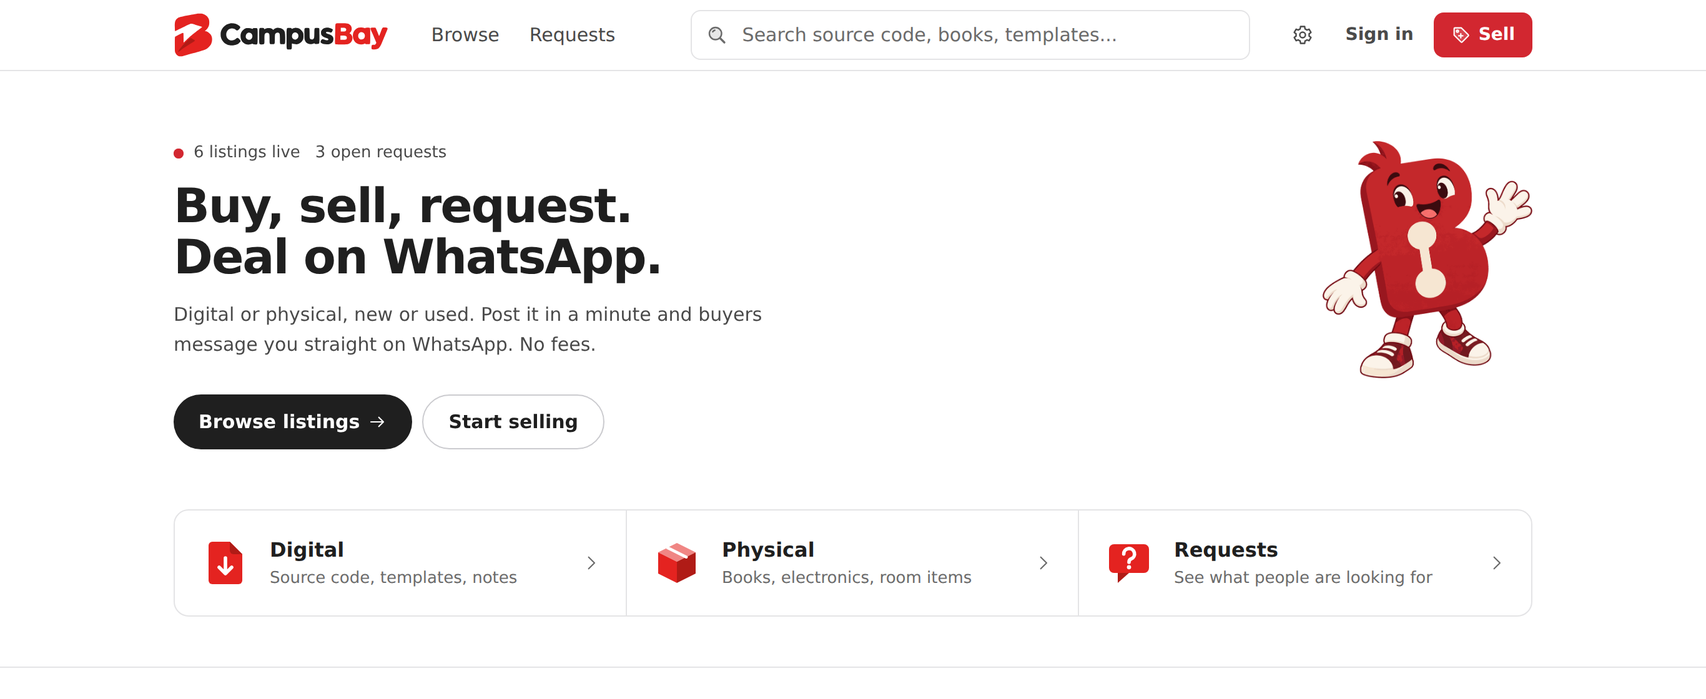
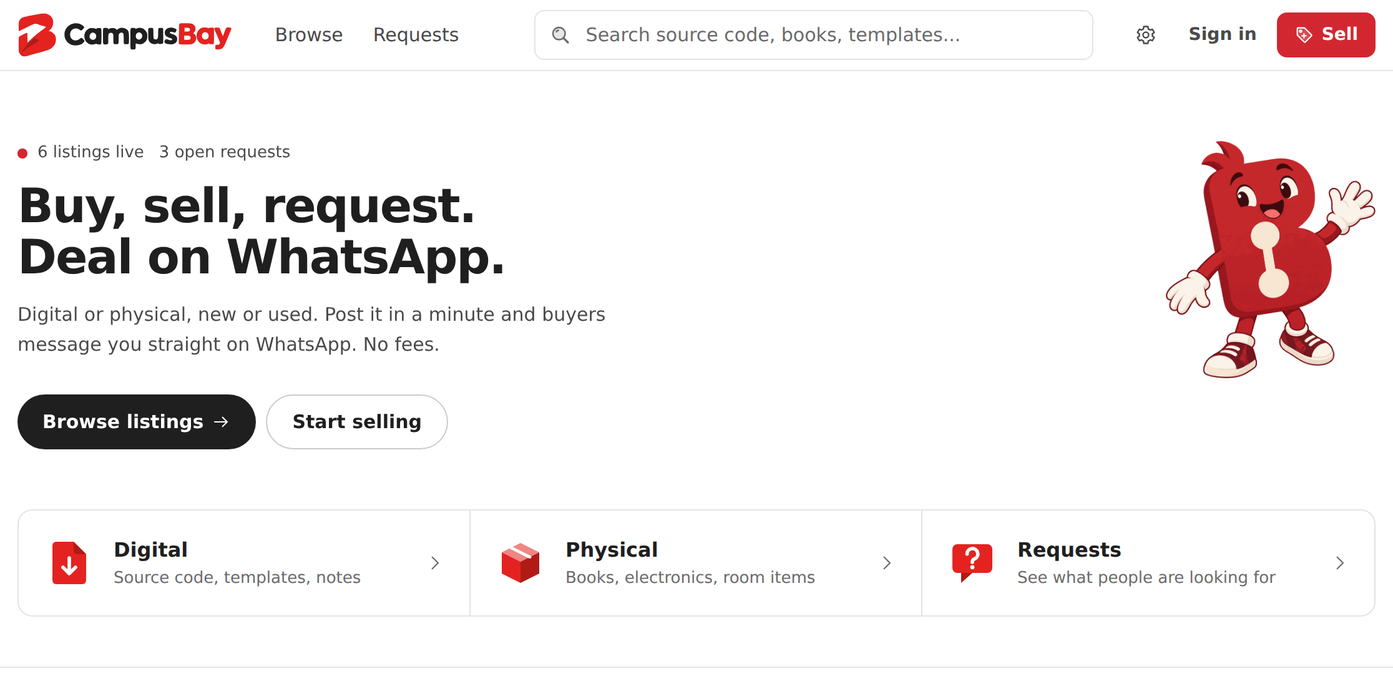
fix: shorter project card subtitles, no links in resume projects, larger CampusBay hero

diff --git a/v7/main.css b/v7/main.css
@@ -1611,3 +1611,6 @@ a.contributor-chip:hover .contributor-chip-avatar {
 .resume-links { font-size: 13px; color: #8a8f98; }
 .resume-links a { color: #2563eb; text-decoration: none; }
 .resume-links a:hover { text-decoration: underline; }
+
+/* project card: wide screenshots shown whole instead of cropped at the sides */
+.project-image-container img.thumb-contain { object-fit: contain; background: #fff; }

diff --git a/v7/content/projects/project.php b/v7/content/projects/project.php
@@ -29,13 +29,13 @@
                                     <div class="project-title">UMOVE</div>
                                     <div class="text-silent text14">2026</div>
                                 </div>
-                                <div class="text-silent project-desc">Campus errands delivered by fellow UM students. Live request board, verified runners, pay on delivery, self-hosted API.</div>
+                                <div class="text-silent project-desc">Campus errands, delivered by fellow UM students.</div>
                                 <div class="project-details">
                                     <div class="hr0-10"></div>
                                     <div class="tech-stack"><span class="badge blog-badge badge-blue">React</span><span class="badge blog-badge badge-green">Hono</span><span class="badge blog-badge badge-purple">PostgreSQL</span><span class="badge blog-badge badge-orange">Docker</span></div>
                                 </div>
                                 <div class="project-image-container">
-                                    <img src="image/assets/umove/hero.png" alt="UMOVE homepage with the live request board" loading="lazy" decoding="async">
+                                    <img class="thumb-contain" src="image/assets/umove/hero.png" alt="UMOVE homepage with the live request board" loading="lazy" decoding="async">
                                     <div class="image-overlay">
                                         <a class="anone badge overlay-btn" href="/umove">Project Details</a>
                                         <a class="anone badge overlay-btn" href="https://umove.rafiarsya.com" target="_blank" rel="noopener noreferrer">Website</a>
@@ -52,13 +52,13 @@
                                     <div class="project-title">CampusBay</div>
                                     <div class="text-silent text14">2026</div>
                                 </div>
-                                <div class="text-silent project-desc">Student marketplace where every deal happens on WhatsApp. Next.js on Cloudflare Workers, with live updates and a full moderation panel.</div>
+                                <div class="text-silent project-desc">Student marketplace where every deal happens on WhatsApp.</div>
                                 <div class="project-details">
                                     <div class="hr0-10"></div>
                                     <div class="tech-stack"><span class="badge blog-badge badge-blue">Next.js</span><span class="badge blog-badge badge-green">Cloudflare Workers</span><span class="badge blog-badge badge-purple">D1</span><span class="badge blog-badge badge-orange">TypeScript</span></div>
                                 </div>
                                 <div class="project-image-container">
-                                    <img src="image/assets/campusbay/hero.png" alt="CampusBay homepage hero with Bayo the mascot" loading="lazy" decoding="async">
+                                    <img class="thumb-contain" src="image/assets/campusbay/hero.png" alt="CampusBay homepage hero with Bayo the mascot" loading="lazy" decoding="async">
                                     <div class="image-overlay">
                                         <a class="anone badge overlay-btn" href="/campusbay">Project Details</a>
                                         <a class="anone badge overlay-btn" href="https://campusbay.store" target="_blank" rel="noopener noreferrer">Website</a>
@@ -75,7 +75,7 @@
                                     <div class="project-title">SENARA Artfest 2026</div>
                                     <div class="text-silent text14">2026</div>
                                 </div>
-                                <div class="text-silent project-desc">Re-themed PPI Malaysia's art exhibition site for 2026 and built a new Online Exhibition with category and artwork pages.</div>
+                                <div class="text-silent project-desc">PPI Malaysia's art exhibition site, with a new online gallery.</div>
                                 <div class="project-details">
                                     <div class="hr0-10"></div>
                                     <div class="tech-stack"><span class="badge blog-badge badge-blue">HTML</span><span class="badge blog-badge badge-green">CSS</span><span class="badge blog-badge badge-purple">JavaScript</span><span class="badge blog-badge badge-orange">Bootstrap 5</span></div>
@@ -98,7 +98,7 @@
                                     <div class="project-title">AI Eval Dashboard</div>
                                     <div class="text-silent text14">2026</div>
                                 </div>
-                                <div class="text-silent project-desc">Claude grades model answers as correct, partial, wrong or hallucinated, with accuracy, latency and cost per run.</div>
+                                <div class="text-silent project-desc">Claude grades AI answers and tracks accuracy, latency and cost.</div>
                                 <div class="project-details">
                                     <div class="hr0-10"></div>
                                     <div class="tech-stack"><span class="badge blog-badge badge-blue">React</span><span class="badge blog-badge badge-green">Node.js</span><span class="badge blog-badge badge-purple">Supabase</span><span class="badge blog-badge badge-orange">Claude API</span></div>
@@ -121,7 +121,7 @@
                                     <div class="project-title">MarketPulse ETL</div>
                                     <div class="text-silent text14">2026</div>
                                 </div>
-                                <div class="text-silent project-desc">Daily crypto data into PostgreSQL, analysed with window functions and CTEs, served by FastAPI to a Chart.js dashboard.</div>
+                                <div class="text-silent project-desc">Crypto ETL pipeline: PostgreSQL, SQL analytics and a live dashboard.</div>
                                 <div class="project-details">
                                     <div class="hr0-10"></div>
                                     <div class="tech-stack"><span class="badge blog-badge badge-blue">Python</span><span class="badge blog-badge badge-green">PostgreSQL</span><span class="badge blog-badge badge-purple">FastAPI</span><span class="badge blog-badge badge-orange">Chart.js</span></div>
@@ -144,7 +144,7 @@
                                     <div class="project-title">PriceWatch</div>
                                     <div class="text-silent text14">2026</div>
                                 </div>
-                                <div class="text-silent project-desc">Chrome extension: point at a price once and get notified when it drops. Re-checks every three hours.</div>
+                                <div class="text-silent project-desc">Chrome extension that alerts you when a price drops.</div>
                                 <div class="project-details">
                                     <div class="hr0-10"></div>
                                     <div class="tech-stack"><span class="badge blog-badge badge-blue">Chrome Extension</span><span class="badge blog-badge badge-green">Manifest V3</span><span class="badge blog-badge badge-purple">Service Worker</span><span class="badge blog-badge badge-orange">Vanilla JS</span></div>
@@ -174,7 +174,7 @@
                                     <div class="project-title">PaperMind</div>
                                     <div class="text-silent text14">2026</div>
                                 </div>
-                                <div class="text-silent project-desc">Ask questions of any PDF with a fully local RAG stack: FastAPI, ChromaDB and Ollama on my own server.</div>
+                                <div class="text-silent project-desc">Chat with any PDF using a fully local RAG stack.</div>
                                 <div class="project-details">
                                     <div class="hr0-10"></div>
                                     <div class="tech-stack"><span class="badge blog-badge badge-blue">RAG</span><span class="badge blog-badge badge-green">LLM</span><span class="badge blog-badge badge-purple">React + Vite</span><span class="badge blog-badge badge-orange">FastAPI</span></div>
@@ -198,7 +198,7 @@
                                     <div class="project-title">AI Digit Recognizer</div>
                                     <div class="text-silent text14">2026</div>
                                 </div>
-                                <div class="text-silent project-desc">A CNN written from scratch in NumPy, 99.1% on MNIST, with a visualizer that shows every layer at work.</div>
+                                <div class="text-silent project-desc">A CNN written from scratch in NumPy, 99.1% on MNIST.</div>
                                 <div class="project-details">
                                     <div class="hr0-10"></div>
                                     <div class="tech-stack"><span class="badge blog-badge badge-blue">NumPy</span><span class="badge blog-badge badge-green">CNN</span><span class="badge blog-badge badge-purple">MNIST</span><span class="badge blog-badge badge-orange">Flask</span></div>
@@ -221,7 +221,7 @@
                                     <div class="project-title">Snip URL Shortener</div>
                                     <div class="text-silent text14">2026</div>
                                 </div>
-                                <div class="text-silent project-desc">Serverless URL shortener with click analytics: Lambda, API Gateway and DynamoDB, defined in AWS SAM.</div>
+                                <div class="text-silent project-desc">Serverless URL shortener on AWS Lambda and DynamoDB.</div>
                                 <div class="project-details">
                                     <div class="hr0-10"></div>
                                     <div class="tech-stack"><span class="badge blog-badge badge-blue">AWS Lambda</span><span class="badge blog-badge badge-green">DynamoDB</span><span class="badge blog-badge badge-purple">API Gateway</span><span class="badge blog-badge badge-orange">AWS SAM</span></div>
@@ -245,7 +245,7 @@
                                     <div class="project-title">Nalar</div>
                                     <div class="text-silent text14">2026</div>
                                 </div>
-                                <div class="text-silent project-desc">Personal blog with a hand-built CMS: Markdown editor, scheduled posts and JWT auth, self-hosted behind Cloudflare Tunnel.</div>
+                                <div class="text-silent project-desc">Self-hosted blog with a CMS I built from scratch.</div>
                                 <div class="project-details">
                                     <div class="hr0-10"></div>
                                     <div class="tech-stack"><span class="badge blog-badge badge-blue">Node.js</span><span class="badge blog-badge badge-green">Express</span><span class="badge blog-badge badge-purple">PostgreSQL</span><span class="badge blog-badge badge-orange">JWT Auth</span></div>
@@ -269,7 +269,7 @@
                                     <div class="project-title">Crop Disease Detector</div>
                                     <div class="text-silent text14">2026</div>
                                 </div>
-                                <div class="text-silent project-desc">Identifies 38 plant diseases from one leaf photo. MobileNetV2 transfer learning, about 97% accuracy, live on Hugging Face.</div>
+                                <div class="text-silent project-desc">Detects 38 plant diseases from one leaf photo.</div>
                                 <div class="project-details">
                                     <div class="hr0-10"></div>
                                     <div class="tech-stack"><span class="badge blog-badge badge-blue">TensorFlow</span><span class="badge blog-badge badge-green">MobileNetV2</span><span class="badge blog-badge badge-purple">Transfer Learning</span><span class="badge blog-badge badge-orange">PlantVillage Dataset</span></div>
@@ -293,7 +293,7 @@
                                     <div class="project-title">IDFEST 2026 Website</div>
                                     <div class="text-silent text14">2026</div>
                                 </div>
-                                <div class="text-silent project-desc">Official site for PPI UM's Indonesian cultural festival, built as a team from Figma designs in Next.js.</div>
+                                <div class="text-silent project-desc">Official site for PPI UM's Indonesian cultural festival.</div>
                                 <div class="project-details">
                                     <div class="hr0-10"></div>
                                     <div class="tech-stack"><span class="badge blog-badge badge-blue">Next.js 16</span><span class="badge blog-badge badge-green">React 19</span><span class="badge blog-badge badge-purple">TypeScript</span><span class="badge blog-badge badge-orange">Tailwind CSS v4</span></div>
@@ -317,7 +317,7 @@
                                     <div class="project-title">Steam Market Intelligence</div>
                                     <div class="text-silent text14">2026</div>
                                 </div>
-                                <div class="text-silent project-desc">SQLite compiled to WebAssembly runs live SQL over 1,400 games right in the browser. No backend.</div>
+                                <div class="text-silent project-desc">Live SQL analytics running entirely in the browser.</div>
                                 <div class="project-details">
                                     <div class="hr0-10"></div>
                                     <div class="tech-stack"><span class="badge blog-badge badge-blue">SQLite</span><span class="badge blog-badge badge-green">sql.js (WASM)</span><span class="badge blog-badge badge-purple">Window Functions</span><span class="badge blog-badge badge-orange">Recursive CTEs</span></div>
@@ -341,7 +341,7 @@
                                     <div class="project-title">Arena Duel</div>
                                     <div class="text-silent text14">2026</div>
                                 </div>
-                                <div class="text-silent project-desc">Real-time 1v1 over WebSockets, with a server-authoritative state machine that keeps both players honest.</div>
+                                <div class="text-silent project-desc">Real-time 1v1 game with cheat-proof server logic.</div>
                                 <div class="project-details">
                                     <div class="hr0-10"></div>
                                     <div class="tech-stack"><span class="badge blog-badge badge-blue">Node.js</span><span class="badge blog-badge badge-green">Socket.IO</span><span class="badge blog-badge badge-purple">Express</span><span class="badge blog-badge badge-orange">React</span></div>
@@ -364,7 +364,7 @@
                                     <div class="project-title">Resume Match</div>
                                     <div class="text-silent text14">2026</div>
                                 </div>
-                                <div class="text-silent project-desc">Scores a resume against a job description with skill matching and weighted scoring. No AI model needed.</div>
+                                <div class="text-silent project-desc">Scores a resume against a job description, no AI needed.</div>
                                 <div class="project-details">
                                     <div class="hr0-10"></div>
                                     <div class="tech-stack"><span class="badge blog-badge badge-blue">React + Vite</span><span class="badge blog-badge badge-green">Node.js + Express</span><span class="badge blog-badge badge-purple">pdfjs-dist</span><span class="badge blog-badge badge-orange">Tailwind</span></div>
@@ -388,7 +388,7 @@
                                     <div class="project-title">NASE Accessibility</div>
                                     <div class="text-silent text14">2025</div>
                                 </div>
-                                <div class="text-silent project-desc">Accessibility audit of a platform for visually impaired students: 23 WCAG 2.1 issues and redesigned components.</div>
+                                <div class="text-silent project-desc">Accessibility audit and redesign for visually impaired students.</div>
                                 <div class="project-details">
                                     <div class="hr0-10"></div>
                                     <div class="tech-stack"><span class="badge blog-badge badge-blue">Accessibility</span><span class="badge blog-badge badge-green">WCAG 2.1 AA</span><span class="badge blog-badge badge-purple">HCI Course</span><span class="badge blog-badge badge-orange">Python + OpenCV</span></div>
@@ -411,7 +411,7 @@
                                     <div class="project-title">HandGesture</div>
                                     <div class="text-silent text14">2024</div>
                                 </div>
-                                <div class="text-silent project-desc">Draw on screen with your index finger: real-time hand tracking with MediaPipe and OpenCV from a webcam.</div>
+                                <div class="text-silent project-desc">Draw on screen with your finger through a webcam.</div>
                                 <div class="project-details">
                                     <div class="hr0-10"></div>
                                     <div class="tech-stack"><span class="badge blog-badge badge-blue">Python</span><span class="badge blog-badge badge-green">MediaPipe</span><span class="badge blog-badge badge-purple">OpenCV</span><span class="badge blog-badge badge-orange">Computer Vision</span></div>
@@ -434,7 +434,7 @@
                                     <div class="project-title">Reminder Me</div>
                                     <div class="text-silent text14">2026</div>
                                 </div>
-                                <div class="text-silent project-desc">Offline-first companion for habits, tasks, exams and prayer times, installable as a PWA and an Android app.</div>
+                                <div class="text-silent project-desc">Offline-first student planner, installable on Android.</div>
                                 <div class="project-details">
                                     <div class="hr0-10"></div>
                                     <div class="tech-stack"><span class="badge blog-badge badge-blue">React 18</span><span class="badge blog-badge badge-green">Vite</span><span class="badge blog-badge badge-purple">PWA</span><span class="badge blog-badge badge-orange">Service Worker</span></div>
@@ -458,7 +458,7 @@
                                     <div class="project-title">BriskWalk</div>
                                     <div class="text-silent text14">2026</div>
                                 </div>
-                                <div class="text-silent project-desc">Registration site for PPI Malaysia's charity walk: multi-step form, image compression and a Google Sheets backend.</div>
+                                <div class="text-silent project-desc">Registration site for PPI Malaysia's charity walk.</div>
                                 <div class="project-details">
                                     <div class="hr0-10"></div>
                                     <div class="tech-stack"><span class="badge blog-badge badge-blue">Figma</span><span class="badge blog-badge badge-green">Vanilla JS</span><span class="badge blog-badge badge-purple">Canvas API</span><span class="badge blog-badge badge-orange">Google Apps Script</span></div>
@@ -481,7 +481,7 @@
                                     <div class="project-title">RafiFinance</div>
                                     <div class="text-silent text14">2026</div>
                                 </div>
-                                <div class="text-silent project-desc">Budgets, savings goals and a health score in a single HTML file that works offline as a PWA.</div>
+                                <div class="text-silent project-desc">Personal finance tracker in a single offline HTML file.</div>
                                 <div class="project-details">
                                     <div class="hr0-10"></div>
                                     <div class="tech-stack"><span class="badge blog-badge badge-blue">Vanilla JS</span><span class="badge blog-badge badge-green">Single HTML File</span><span class="badge blog-badge badge-purple">PWA</span><span class="badge blog-badge badge-orange">localStorage</span></div>
@@ -505,7 +505,7 @@
                                     <div class="project-title">Large Number Arithmetic</div>
                                     <div class="text-silent text14">2026</div>
                                 </div>
-                                <div class="text-silent project-desc">Arithmetic on numbers of any size with a doubly linked list, plus a step-by-step visualizer.</div>
+                                <div class="text-silent project-desc">Arithmetic on huge numbers with a doubly linked list.</div>
                                 <div class="project-details">
                                     <div class="hr0-10"></div>
                                     <div class="tech-stack"><span class="badge blog-badge badge-blue">Java</span><span class="badge blog-badge badge-green">Data Structures</span><span class="badge blog-badge badge-purple">Next.js</span><span class="badge blog-badge badge-orange">TypeScript</span></div>
@@ -528,7 +528,7 @@
                                     <div class="project-title">CSA Study App</div>
                                     <div class="text-silent text14">2026</div>
                                 </div>
-                                <div class="text-silent project-desc">Exam prep for Computer Systems Architecture with drills and visualizers for cache mapping and Hamming codes.</div>
+                                <div class="text-silent project-desc">Exam prep app with visual drills for Computer Systems Architecture.</div>
                                 <div class="project-details">
                                     <div class="hr0-10"></div>
                                     <div class="tech-stack"><span class="badge blog-badge badge-blue">Vanilla JS</span><span class="badge blog-badge badge-green">Single HTML File</span><span class="badge blog-badge badge-purple">Procedural Question Generation</span><span class="badge blog-badge badge-orange">Lucide Icons</span></div>
@@ -552,7 +552,7 @@
                                     <div class="project-title">LLM Response Preference Baseline</div>
                                     <div class="text-silent text14">2026</div>
                                 </div>
-                                <div class="text-silent project-desc">Predicts which of two chatbot answers a human preferred, with a TF-IDF and logistic regression baseline.</div>
+                                <div class="text-silent project-desc">Predicts which chatbot answer people prefer.</div>
                                 <div class="project-details">
                                     <div class="hr0-10"></div>
                                     <div class="tech-stack"><span class="badge blog-badge badge-blue">scikit-learn</span><span class="badge blog-badge badge-green">TF-IDF</span><span class="badge blog-badge badge-purple">NLP</span><span class="badge blog-badge badge-orange">Jupyter</span></div>

diff --git a/v7/content/pages/resume.php b/v7/content/pages/resume.php
@@ -160,39 +160,39 @@
 
             <h4>Selected Projects (2026)</h4>
             <div class="resume-project">
-                <div class="resume-project-top"><b>CampusBay: Student Marketplace</b><span class="resume-links"><a href="https://campusbay.store" target="_blank" rel="noopener">campusbay.store</a></span></div>
+                <b>CampusBay: Student Marketplace</b>
                 <p>Live marketplace where students list items or post requests and close deals on WhatsApp. Next.js 16 on Cloudflare Workers with D1 and Drizzle, instant updates through a Durable Object, EN/MS/ID search and a full moderation panel. Built and run solo.</p>
             </div>
             <div class="resume-project">
-                <div class="resume-project-top"><b>UMOVE: Campus Errand Delivery</b><span class="resume-links"><a href="https://umove.rafiarsya.com" target="_blank" rel="noopener">umove.rafiarsya.com</a></span></div>
+                <b>UMOVE: Campus Errand Delivery</b>
                 <p>Students post errands and verified student runners deliver them, paid on delivery. React 19 front end on Cloudflare Workers; Node, Hono and PostgreSQL API in Docker on a mini PC behind Cloudflare Tunnel, with a live board over Server-Sent Events.</p>
             </div>
             <div class="resume-project">
-                <div class="resume-project-top"><b>PaperMind: Local RAG Paper Analyzer</b><span class="resume-links"><a href="https://papermind.rafiarsya.com" target="_blank" rel="noopener">papermind.rafiarsya.com</a></span></div>
+                <b>PaperMind: Local RAG Paper Analyzer</b>
                 <p>Ask questions of any PDF with answers grounded in the text. FastAPI, ChromaDB and Ollama, fully offline, in Docker Compose on a self-hosted Linux server.</p>
             </div>
             <div class="resume-project">
-                <div class="resume-project-top"><b>AI Digit Recognizer: CNN From Scratch</b><span class="resume-links"><a href="https://github.com/rafiarsya07/ai-digit-recognizer" target="_blank" rel="noopener">GitHub</a></span></div>
+                <b>AI Digit Recognizer: CNN From Scratch</b>
                 <p>Convolutional network written entirely in NumPy, from convolutions to backpropagation and Adam. 99.1% on the MNIST test set, served by Flask with a layer-by-layer visualizer.</p>
             </div>
             <div class="resume-project">
-                <div class="resume-project-top"><b>Nalar: Blog with a Custom CMS</b><span class="resume-links"><a href="https://blog.rafiarsya.com/" target="_blank" rel="noopener">blog.rafiarsya.com</a> &middot; <a href="https://github.com/rafiarsya07/thoughtlog" target="_blank" rel="noopener">GitHub</a></span></div>
+                <b>Nalar: Blog with a Custom CMS</b>
                 <p>Node.js, Express and PostgreSQL blog with JWT auth, Markdown editing and scheduled publishing. Self-hosted behind Cloudflare Tunnel, managed with PM2.</p>
             </div>
             <div class="resume-project">
-                <div class="resume-project-top"><b>Crop Disease Detector</b><span class="resume-links"><a href="https://huggingface.co/spaces/rafiarsya/crop-disease-detector" target="_blank" rel="noopener">Hugging Face</a></span></div>
+                <b>Crop Disease Detector</b>
                 <p>Classifies 38 plant diseases from a leaf photo. MobileNetV2 transfer learning with two-phase fine-tuning in TensorFlow/Keras, about 97% accuracy, deployed on Hugging Face Spaces.</p>
             </div>
             <div class="resume-project">
-                <div class="resume-project-top"><b>IDFEST 2026 Website</b><span class="resume-links"><a href="https://idfest.ppiunimalaya.id/" target="_blank" rel="noopener">idfest.ppiunimalaya.id</a></span></div>
+                <b>IDFEST 2026 Website</b>
                 <p>Official site for PPI UM's cultural festival, built as a team in Next.js 16 and Tailwind v4. Owned the homepage timeline, responsive hero and shared navigation.</p>
             </div>
             <div class="resume-project">
-                <div class="resume-project-top"><b>SENARA Creative Artfest 2026</b><span class="resume-links"><a href="https://senara.ppimalaysia.id/" target="_blank" rel="noopener">senara.ppimalaysia.id</a></span></div>
+                <b>SENARA Creative Artfest 2026</b>
                 <p>Refreshed PPI Malaysia's art exhibition site and built a new Online Exhibition with category and artwork pages, in HTML, CSS, JavaScript and Bootstrap 5.</p>
             </div>
             <div class="resume-project">
-                <div class="resume-project-top"><b>RafiFinance</b><span class="resume-links"><a href="https://finance.rafiarsya.com" target="_blank" rel="noopener">finance.rafiarsya.com</a></span></div>
+                <b>RafiFinance</b>
                 <p>Budget and savings tracker in a single HTML file with a financial health score. Works offline as a PWA, deployed on Cloudflare Pages.</p>
             </div>
             <hr>

diff --git a/v7/content/projects/campusbay.php b/v7/content/projects/campusbay.php
@@ -9,7 +9,7 @@
 <div class="d-flex justify-content-center">
     <div class="mdcontent">
 
-        <figure class="p-hero"><img alt="CampusBay homepage: headline, Browse and Start selling buttons, the Digital, Physical and Requests doors, and Bayo the mascot waving" decoding="async" src="image/assets/campusbay/hero.png"/></figure>
+        <figure class="p-hero"><picture><source media="(max-width: 600px)" srcset="image/assets/campusbay/hero-mobile.png"><img alt="CampusBay homepage: headline, Browse and Start selling buttons, the Digital, Physical and Requests doors, and Bayo the mascot waving" decoding="async" src="image/assets/campusbay/hero.png"/></picture></figure>
 
         <div class="blog-content-header">
             <div>
